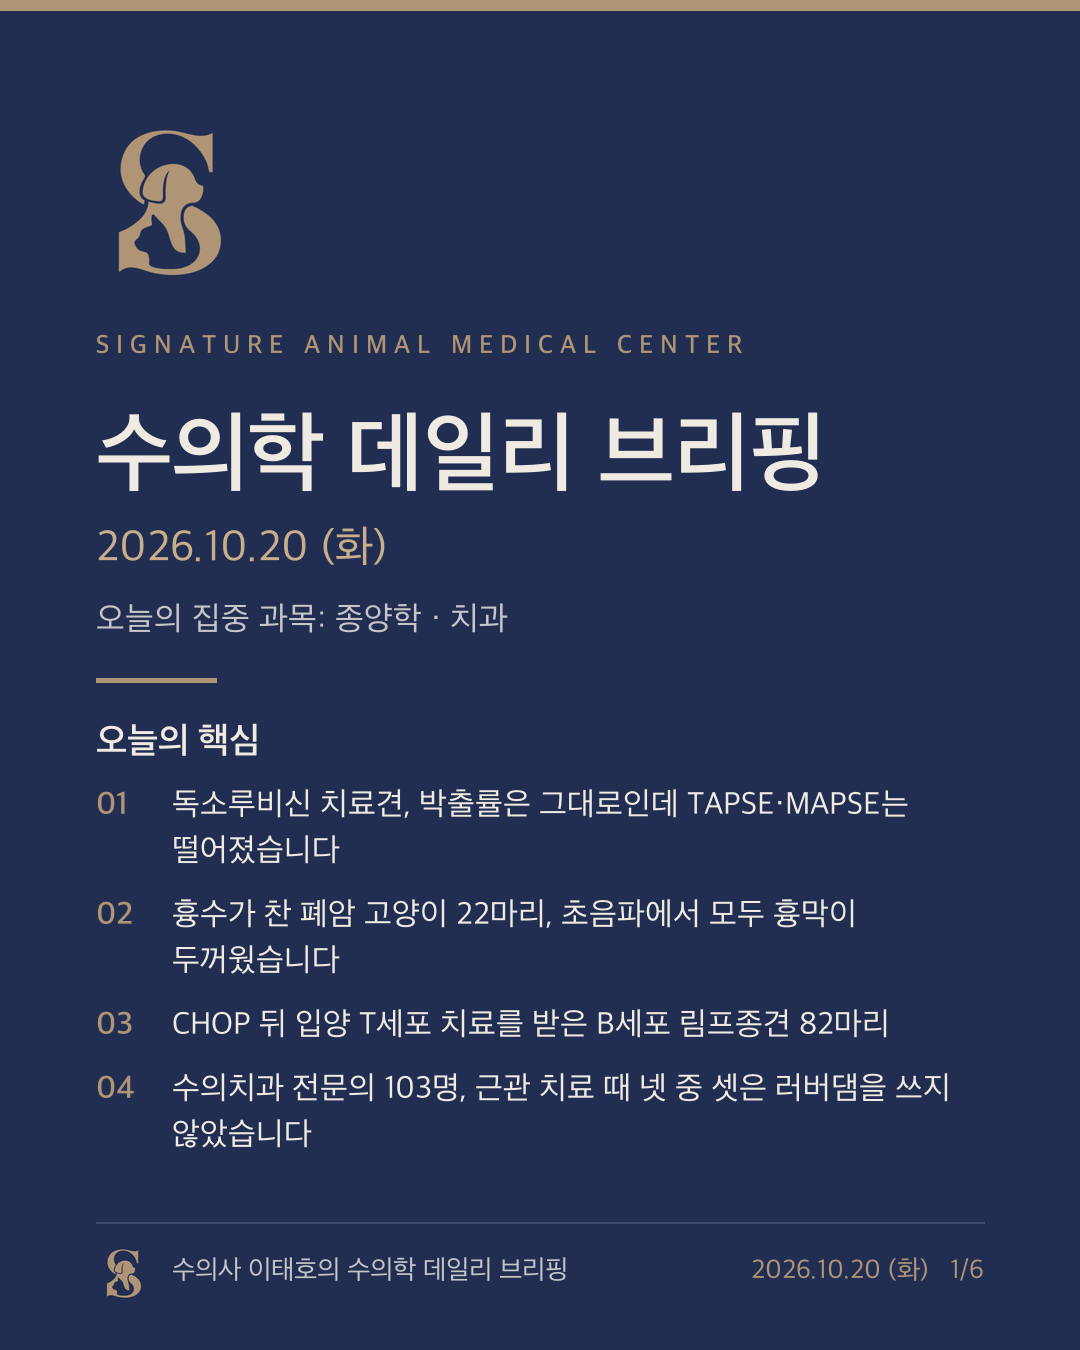
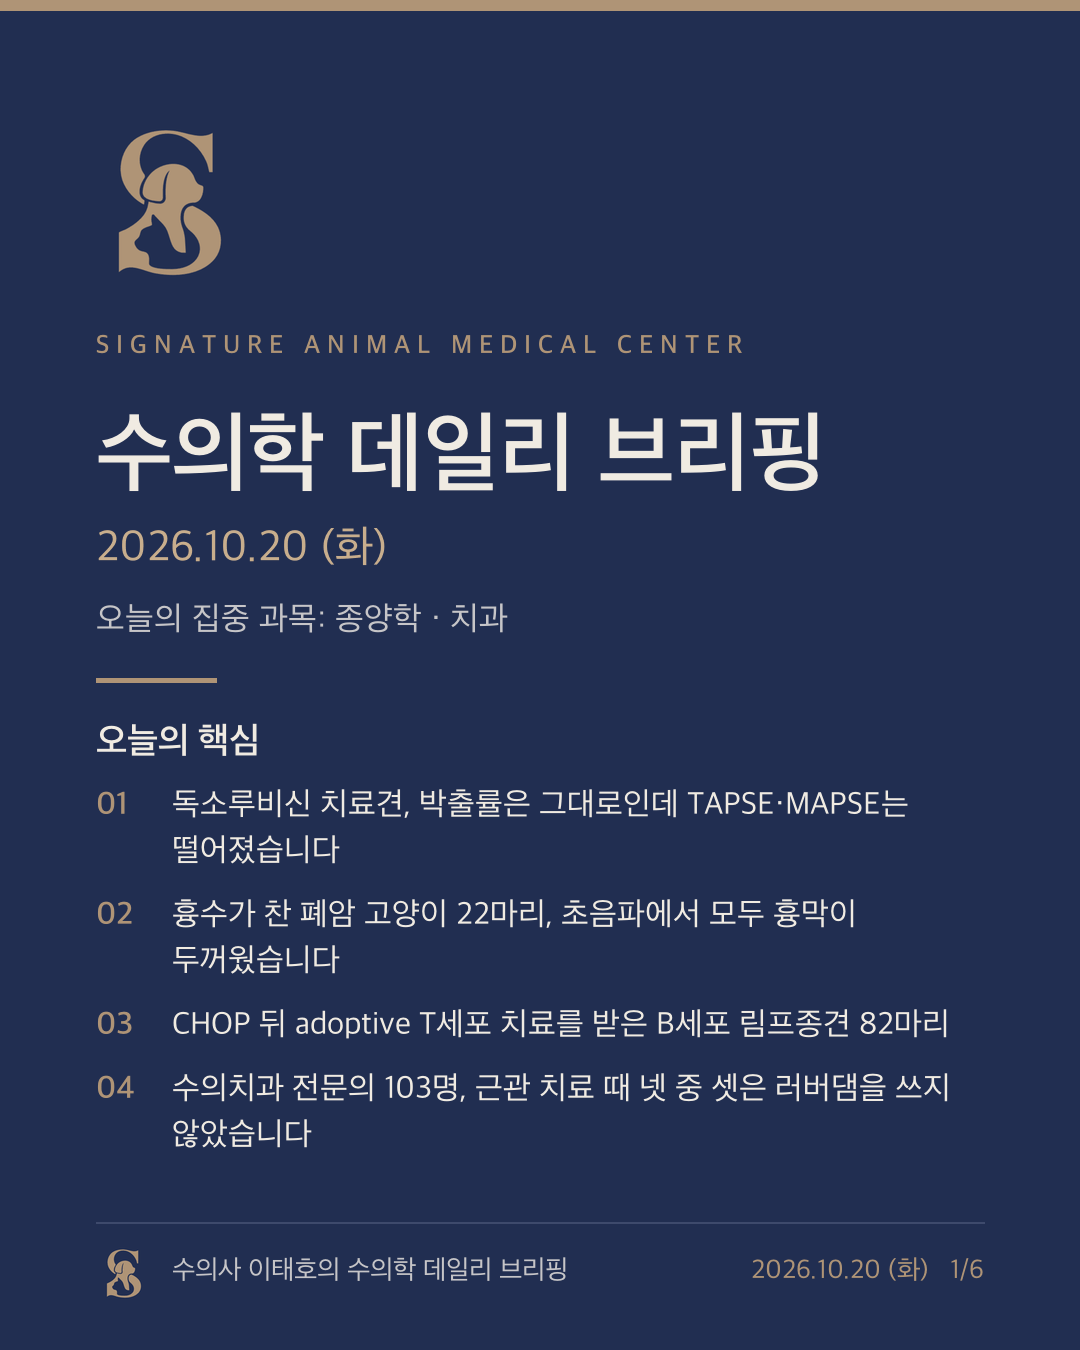
브리핑 2026-10-20: adoptive T-cell therapy 용어 원어 표기로 수정

Changed region(s): [[0.275, 0.7467, 0.8861, 0.7778]]

diff --git a/reports/2026-10-20.md b/reports/2026-10-20.md
@@ -32,9 +32,9 @@
 - **근거 수준** — 후향 기술 연구(고양이 22마리)
 - **교신저자** — Masahiro Murakami (Department of Veterinary Clinical Sciences, College of Veterinary Medicine, Purdue University) · 수의종양학 9편(인용 113회)
 
-### CHOP 뒤 입양 T세포 치료를 받은 B세포 림프종견 82마리
+### CHOP 뒤 adoptive T세포 치료를 받은 B세포 림프종견 82마리
 
-CHOP 항암 치료 뒤 2017년부터 2025년까지 입양 T세포 치료(ACT)를 받은 B세포 림프종견 82마리의 기록이다. 제1저자는 기업(Aurelius Biotherapeutics) 소속이다.
+CHOP 항암 치료 뒤 2017년부터 2025년까지 adoptive T세포 치료(ACT)를 받은 B세포 림프종견 82마리의 기록이다. 제1저자는 기업(Aurelius Biotherapeutics) 소속이다.
 
 진단부터의 전체 생존기간 중앙값은 660일(95% CI 539–781일), 첫 ACT 투여부터의 생존기간 중앙값은 368일(95% CI 261–474일)이었다. 첫 ACT 뒤 다음 림프종 치료를 시작하기까지는 중앙값 317일(95% CI 284–350일)이 걸렸다. 이상 반응은 82마리 중 4마리(5%)에서 있었고 대부분 1–2등급, 3등급이 1건이었다.
 
